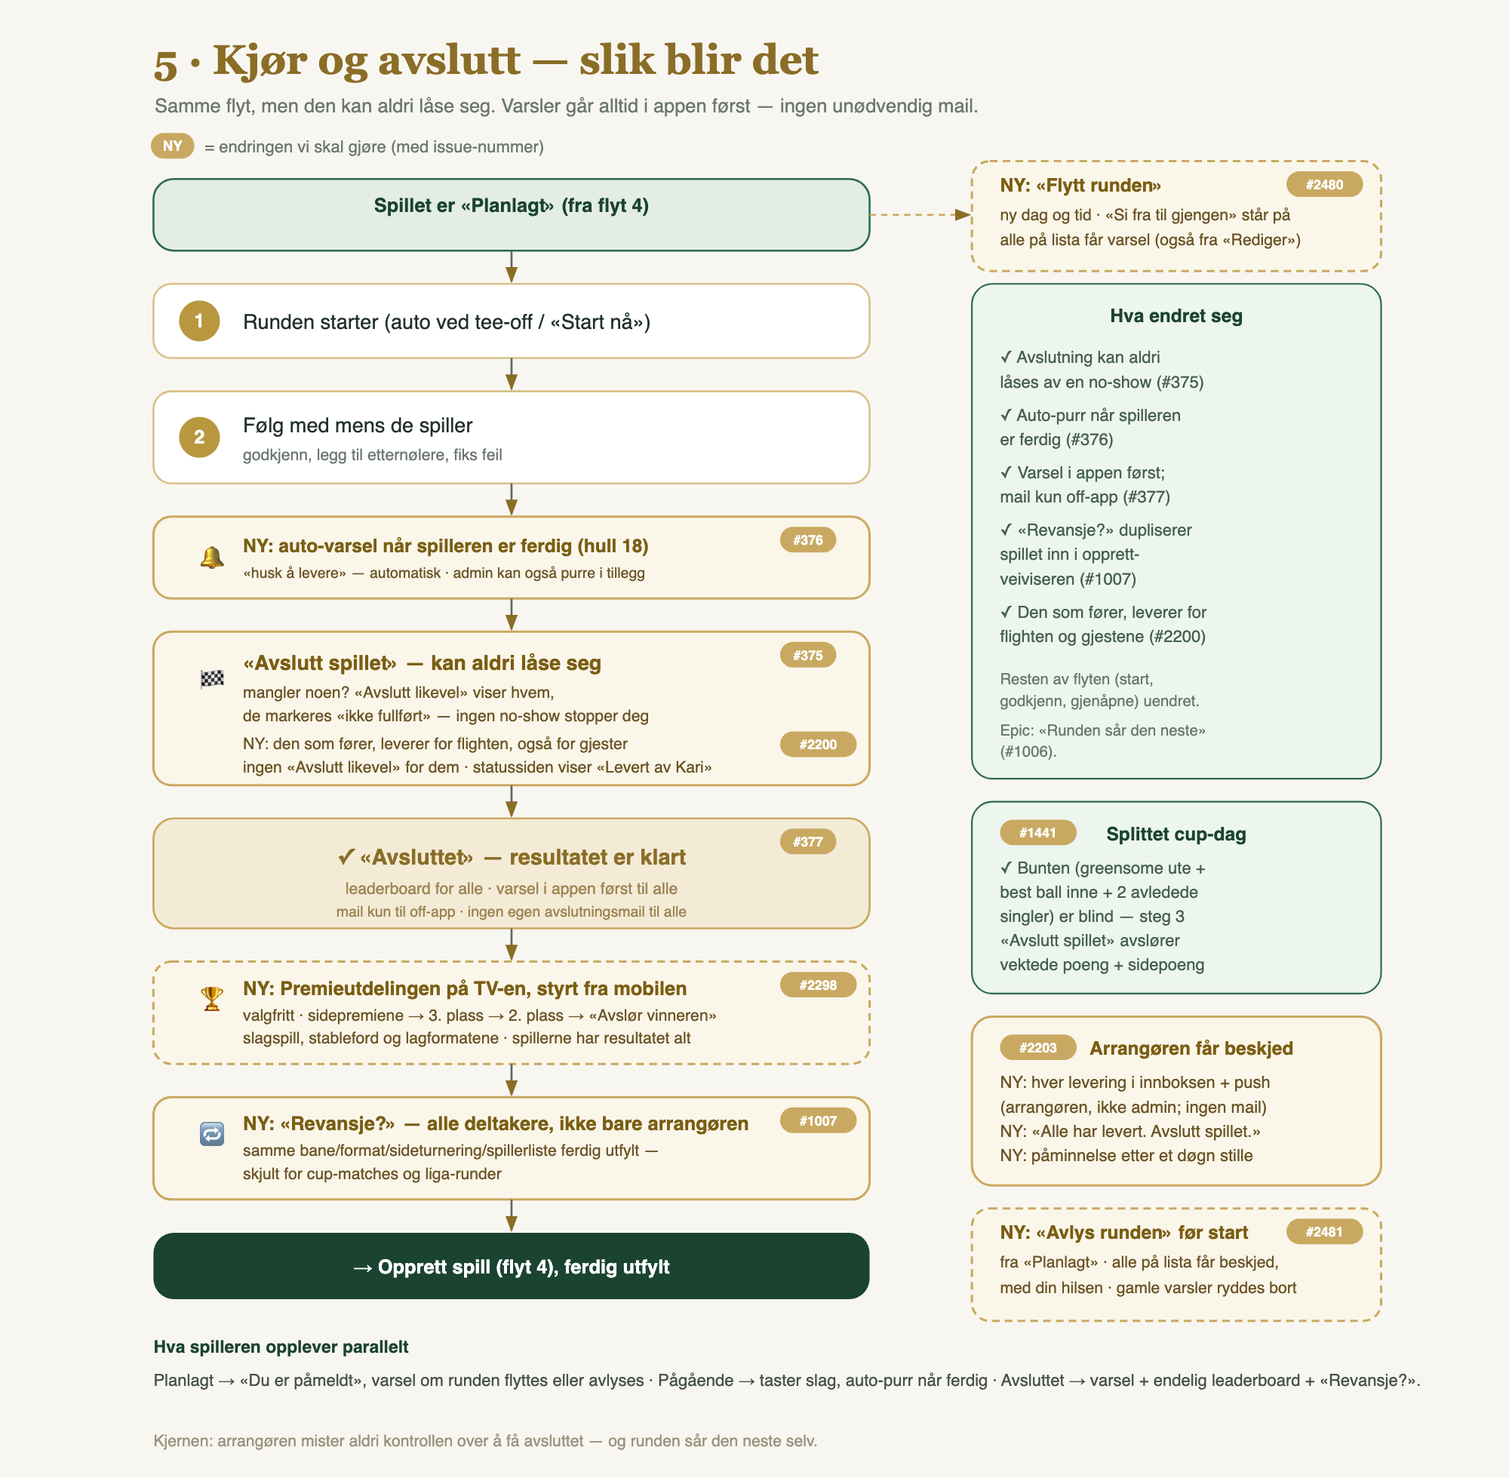
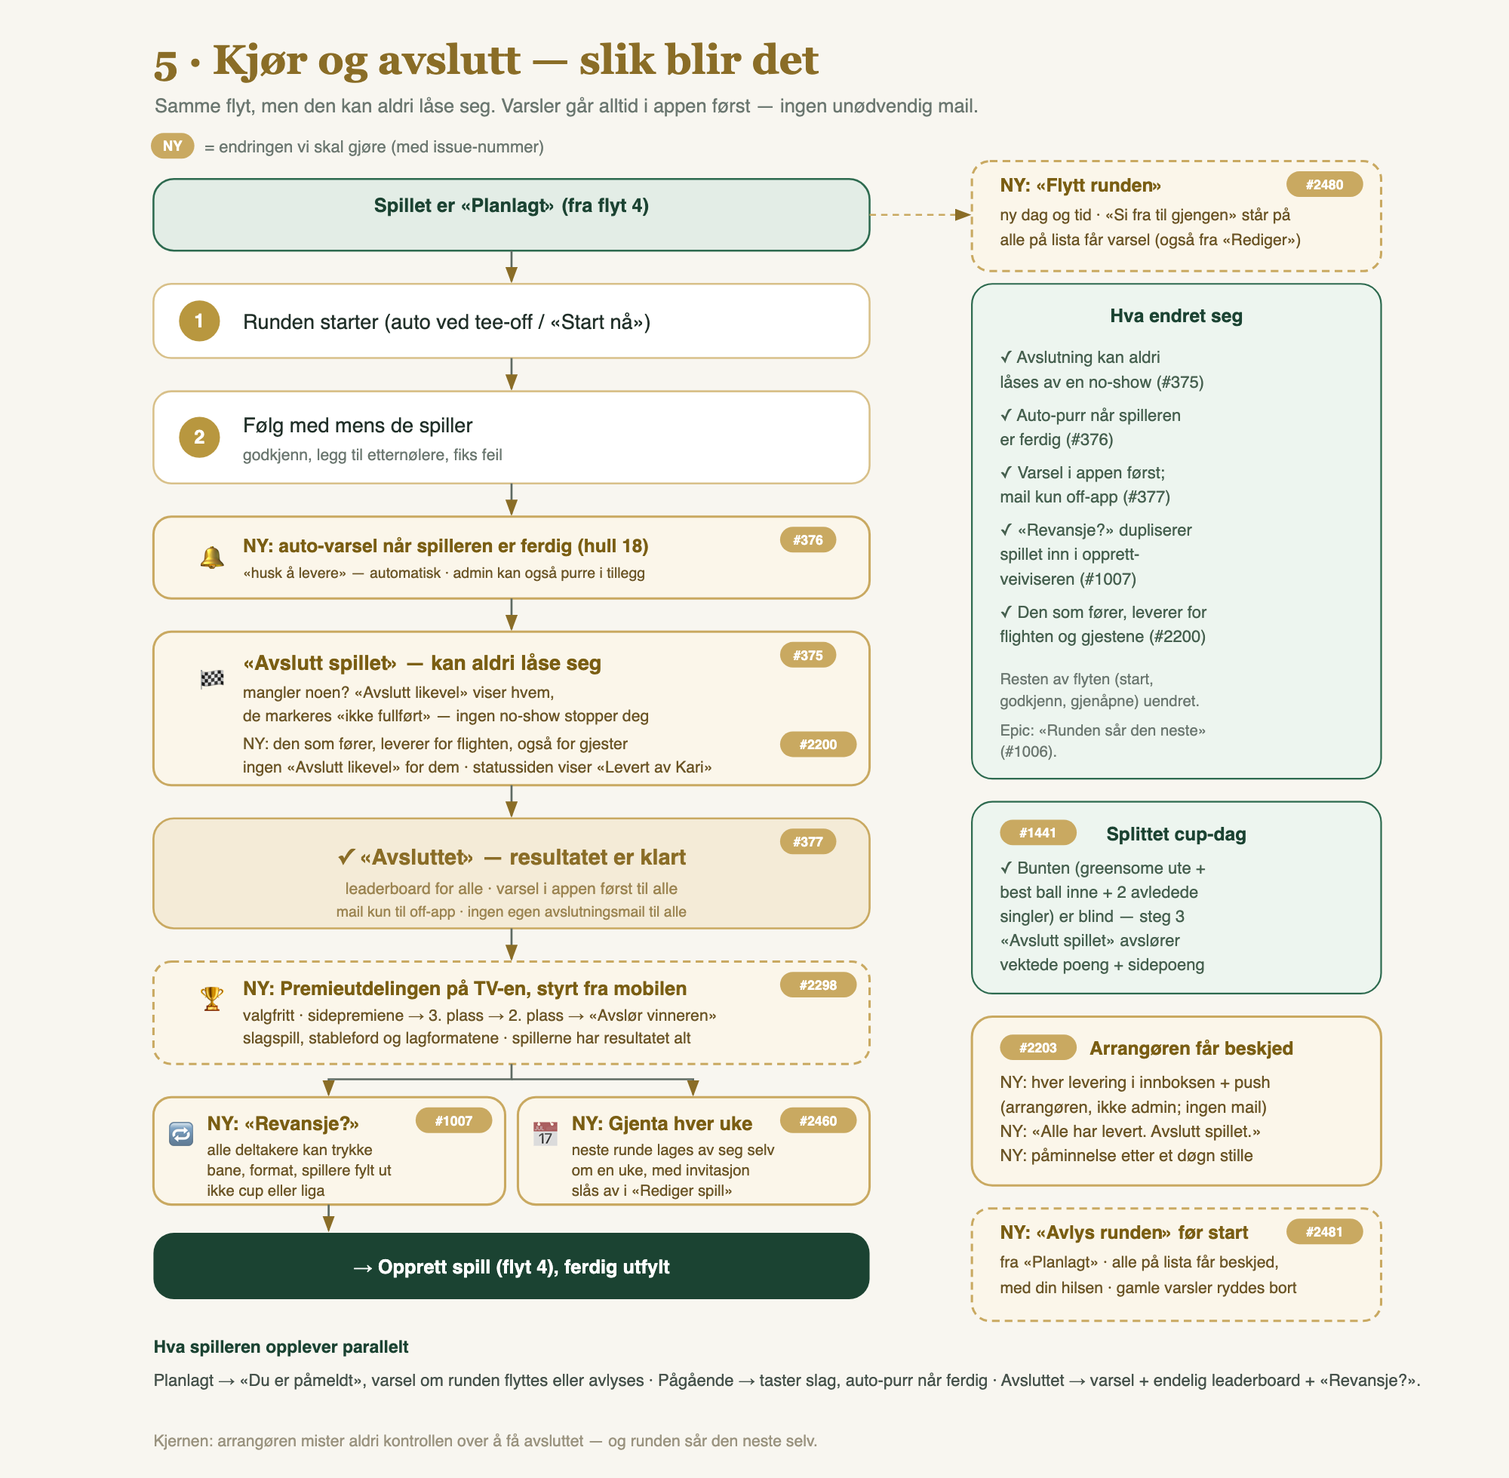
docs(flows): «Gjenta hver uke» in flows 4 and 5, user-flows and schema
Flow 4's «Klar?» gets a NY box for the switch (Kompis and Solo); flow 5
puts «Gjenta hver uke» beside «Revansje?» after the finish. PNGs
regenerated for the two diagrams only. user-flows.md says it at A1 step 5
and A2 «Avslutt»; schema-ground-truth.md has the two columns, the CHECK
and the guard.

Refs #2460

Changed region(s): [[0.093, 0.7162, 0.558, 0.8407]]

diff --git a/docs/user-flows.md b/docs/user-flows.md
@@ -348,7 +348,7 @@ flowchart LR
 | 2 Format | `FormatGrid` (eller `CupSetup`) | **DB-drevet** fra `formats` + `format_intent_mapping`, anbefalt format først: med antall (Kompis) er det første formatet som passer, et stort kort, og tre til står under (#2260). Under lista følger «Velg lagstørrelse» antallet: størrelser som ikke går opp, står grå og sier hvorfor, og et format med én lagstørrelse viser den som en linje (#2453). Når et format er valgt, krymper lista til én linje med «Bytt», og oppsettet står rett under (#2454). Cup → `createTournamentDraft` → `tournaments`-rad → `/admin/cup/[id]`. Ved «Klubb-turnering» velges klubben (`ClubPicker`) over formatlista, og «Neste» krever en gyldig klubb (#2439). Shamble og champagne scramble har handicap-andelen (%) rett under «Tellemåte», bare med Netto, og får ikke det generelle andelsfeltet på steg 5 (#2570). Dyplenka `?format=` fra formatvelgeren på `/spillformater` åpner Kompis på dette steget med formatet valgt og arrangøren som spiller (#2328). Dyplenka `?oppsett=<målgruppe>` fra guidene gjør det samme med guidens oppsett (format og lagstørrelse, uten antall) og vinner over `?format=`; `?fra=`, `?klubb=` og `?intent=` slår den av (`resolveWizardDeepLink`, #2331). `?bane=` gjør det ikke, for den kommer tilbake sammen med forslags-lenka fra «Opprett ny bane» (#2485). |
 | 3 Bane og tidspunkt | `BasicsSection` | «Hvor og når?» (#2448). **Sist brukt:** de to banene du brukte sist, som kort (per bruker, spill du har spilt eller arrangert; ikke utkast, trukne eller avledede spill, `getCourseAndTimeData`). Under navnet står «N runder i høst» (årstiden etter Oslo-kalenderen: vår mar–mai, sommer jun–aug, høst sep–nov, vinter des–feb), eller «Sist 12. aug» når banen ikke er spilt i årstiden. En bane valgt på annen måte står først som «Valgt». Uten historikk heter kickeren «Bane». **Søket** finner alle baner (fra `getNewGameFormData`). **Tee** er knapper med fargeprikk (`tee_boxes.color`, ellers navnet, ellers nøytral) og hvem teen er vurdert for; én tee er valgt fra start. **Tee-off** har hurtigvalg: «Nå» (bare Kompis og Solo, #2463), «I dag», «I morgen» og «Annen dag», så 08:00, 09:00, 10:00 og «Annen tid» (Oslo-tz, «nå» regnet på serveren). Standarden lørdag kl. 09:00 står under «Annen dag» med datoen, med mindre lørdag er i dag eller i morgen. Tider som har passert i dag kan ikke velges. «Nå» skjuler klokkeslettene: tiden settes når du publiserer (`resolveTeeOffForSave`), så femminuttersgrensen gjelder ikke, og runden starter med en gang. Et utkast med «Nå» lagres uten tidspunkt og åpnes med «Nå» valgt. Auto-navn. «Opprett ny bane» går til `/opprett-bane?next=…` med veien tilbake til steg 3. Der viser «Finnes banen alt?» opptil fem baner som ligner navnet du skriver (`similar_courses`, #2485). «Bruk denne», eller en bane du lagrer der, kommer tilbake valgt: når utkastet er hentet, velger veiviseren banen fra `?bane=` over utkastets og fjerner parameteren fra adressen (`useCourseFromUrl`). `banevalg=1` står igjen, så «Som sist» holder seg borte fra steg 1 også etter en reload (#2446). Format og spillere står. I appen heter døra «Finner du ikke banen? Legg den inn», og den åpner samme skjema med samme regler som nettet; en lagret bane, eller «Bruk denne», kommer tilbake valgt på steg 3 (#2757). |
 | 4 Spillere | `PlayerSourceChoice` + `PlayerPickerGrid` + `PlayerTray`, så `TeamsAssignmentSection` | Øverst, under tittelen «Hvordan får dere spillere?», står påmeldingsvalget (#2447, #367): «Jeg velger dem nå» (standard, privat), «De ber om plass, jeg godkjenner» (med «Slipp venner direkte inn», #369) og «Åpen påmelding». Velges påmelding, er lista valgfri og «Neste: Klar?» går rett til steg 5, også i best ball med deg alene. Klubb-turneringen har ikke valget (medlemskap er invitasjonen, #643) og beholder tittelen «Hvem skal spille?». Det samme gjelder en runde med «Nå» på steg 3: den starter med en gang, så du velger spillerne selv (#2463). Under valget: vennene (eller klubbmedlemmene) som kort, du selv først og så sist spilt først (`orderPickerPlayers`, #2321). Brettet nederst teller mot målet («3 av 4 · én til»). Lagformater og singles matchplay fordeler lag, sider og flights på en egen skjerm («Neste: lagene»); solo-formatene har tee per spiller på velgeren. Under påmeldingsvalget står «Hva melder man på?» (individuelt eller lag), bare for lagformater (#2457). Gjest legges til fra «+ Gjest»; «✉ E-post» samler adresser som inviteres når spillet publiseres (`sendPublishInvites`). Steget kan stå tomt hvis påmelding er valgt øverst på steget, og i en klubb-turnering med individuell påmelding (#2433). I appen (#2840 del 4) har spillersteget i en kompisrunde det samme valget øverst, med de samme ordene (`RegistrationChoice`): de tre kortene, «Slipp venner direkte inn» inne i kortet for godkjenning, og «Hva melder man på?» for lagformatene. Velges påmelding, heter lista «Vil du legge inn noen nå? Lista kan stå tom.», og runden kan publiseres uten spillere. Med Lag og påmelding er det ingen liste, og ingen står på den fra start (`organiserStartsOnRoster`). Lagene melder seg på selv, og merknaden sier at du melder på laget ditt fra runden. En som sto på lista uten lag, ville ikke kunnet melde på eget lag. Går valget tilbake, er lista og du med igjen. Et format uten lag setter typen tilbake til Individuelt. Klubbturneringen i appen har ikke valget. |
-| 5 Klar? | `ReadyStep` | Et lite invitasjonskort med spillnavnet som felt midt i kortet, og en sjekkliste (Bane, Format, Tee-off, Spillere) med status og «Endre» som hopper til steget valget bor på (#2282). Spillere-raden sier hvordan spillerne kommer («Privat», «Du godkjenner påmeldinger», «Åpen påmelding»; ikke i en klubb-turnering), og «Endre» går til steg 4 der valget bor (#2447). Under sjekklista står INNSTILLINGER (#2457): Handicap (bare for formater med handicapfelt), Startkontingent, Under runden (synlighet og godkjenning fra flighten) og Sideturnering og premier, hver som en kort rad med verdien som er satt og «Endre». «Endre» åpner et bunn-ark (`BottomSheet`) med bare radens felt; ✕, bakgrunnen, Esc og «Ferdig» lukker det. Verdiene bæres av `FormDataInputs`, ikke av arkene, så de er med når arket er lukket. Premiebordet er en rad som åpner bordet, lukket som standard og åpent når spillet alt har premier. Prosenten står bare i Handicap-raden; Format-raden blir fortsatt rød når den er ugyldig, og «Endre» der åpner Handicap-arket med fokus i feltet. Brettet nederst: «Publiser og del invitasjonen» (`createAndPublishGame`, status `scheduled` + invitasjoner) eller «Lagre som utkast» (`createGameDraft`, status `draft`). Publisering varsler alle på lista én gang (`notifyRosterInvites`); en tom klubb-turnering varsler ingen. «Lagre som utkast» varsler ingen (#2445). En venn uten fullført profil stopper ikke publiseringen. Runden starter når profilen er på plass, og spillerraden på steg 5 sier «N venter på profil» (#2441). Er alle valgte spillere gjester, blir spillerraden rød og publiseringen stoppes alltid, uansett påmeldingsmåte; serveren avviser også (`guestOnlyRoster`, #2570). Redigering av en planlagt runde stoppes ikke. I appen står «Påmelding» over spillerne i oppsummeringen for en kompisrunde, med de samme ordene og « · lag» for lagpåmelding («Åpen påmelding · lag»). Uten spillere og med lagpåmelding står «Spillere (0)» og «Lagene melder seg på selv». Etter publiseringen får arrangøren som ikke står på lista, kortet «Meld på laget ditt» på runden (`OwnTeamCard`, #2840 del 4). Knappen åpner lagskjemaet på «Påmelding» med deg som kaptein. Når laget er sendt, står «Laget ditt» i stedet. |
+| 5 Klar? | `ReadyStep` | Et lite invitasjonskort med spillnavnet som felt midt i kortet, og en sjekkliste (Bane, Format, Tee-off, Spillere) med status og «Endre» som hopper til steget valget bor på (#2282). Spillere-raden sier hvordan spillerne kommer («Privat», «Du godkjenner påmeldinger», «Åpen påmelding»; ikke i en klubb-turnering), og «Endre» går til steg 4 der valget bor (#2447). Under sjekklista står INNSTILLINGER (#2457): Handicap (bare for formater med handicapfelt), Startkontingent, Under runden (synlighet og godkjenning fra flighten) og Sideturnering og premier, hver som en kort rad med verdien som er satt og «Endre». «Endre» åpner et bunn-ark (`BottomSheet`) med bare radens felt; ✕, bakgrunnen, Esc og «Ferdig» lukker det. Verdiene bæres av `FormDataInputs`, ikke av arkene, så de er med når arket er lukket. Premiebordet er en rad som åpner bordet, lukket som standard og åpent når spillet alt har premier. Prosenten står bare i Handicap-raden; Format-raden blir fortsatt rød når den er ugyldig, og «Endre» der åpner Handicap-arket med fokus i feltet. Brettet nederst: «Publiser og del invitasjonen» (`createAndPublishGame`, status `scheduled` + invitasjoner) eller «Lagre som utkast» (`createGameDraft`, status `draft`). Publisering varsler alle på lista én gang (`notifyRosterInvites`); en tom klubb-turnering varsler ingen. «Lagre som utkast» varsler ingen (#2445). Under INNSTILLINGER står «Gjenta hver uke» for Kompis og Solo, ikke i en klubb-turnering, en cupkamp eller med «Nå» (`canRepeatWeekly`, #2460). Når bryteren er på, står neste dato under («Neste: lørdag 10. okt kl. 09:00 …», tee-off pluss sju dager), og appens «Klar?» har den samme bryteren for en kompisrunde. En venn uten fullført profil stopper ikke publiseringen. Runden starter når profilen er på plass, og spillerraden på steg 5 sier «N venter på profil» (#2441). Er alle valgte spillere gjester, blir spillerraden rød og publiseringen stoppes alltid, uansett påmeldingsmåte; serveren avviser også (`guestOnlyRoster`, #2570). Redigering av en planlagt runde stoppes ikke. I appen står «Påmelding» over spillerne i oppsummeringen for en kompisrunde, med de samme ordene og « · lag» for lagpåmelding («Åpen påmelding · lag»). Uten spillere og med lagpåmelding står «Spillere (0)» og «Lagene melder seg på selv». Etter publiseringen får arrangøren som ikke står på lista, kortet «Meld på laget ditt» på runden (`OwnTeamCard`, #2840 del 4). Knappen åpner lagskjemaet på «Påmelding» med deg som kaptein. Når laget er sendt, står «Laget ditt» i stedet. |
 | Kvittering | `app/[locale]/games/[id]/klar/page.tsx` (#2458) | «Publiser og del invitasjonen» lander her, fra ny runde og fra utkast, for admin og arrangør (`requireAdminOrCreator`). Redirecten erstatter veiviseren i historikken, så «Tilbake» fra spillet gir kvitteringen. Øverst står «✓ {navn} er klar» og hvem som har fått invitasjonen (`lib/games/publishReceipt.ts`: lista uten arrangøren, den som publiserte, gjester og trukne; opptil tre fornavn, så «og N til», e-postinvitasjoner sist). Under står det lille kortet fra «Klar?» uten felt, og så «Del i gruppechatten» (delingsarket, ellers kopiering), «Kopier lenke», «Legg i kalenderen» (`.ics`, også for arrangøren som ikke spiller) og «Gå til spillet» (admin `/admin/games/[id]`, andre `/games/[id]`). Delingsknappene står bare når `isPubliclyViewable` sier ja, så «Bare de jeg inviterer» viser ingen lenke. Siden skriver ingenting og kan lastes på nytt; et spill som ikke er planlagt, eller en cupkamp, sender videre til spillet. Cupkamper, utkast og en publisering der e-postinvitasjoner feilet, beholder sine redirecter. |
 
 **Autolagring (#2459).** Veiviseren lagrer oppsettet av seg selv etter hvert steg, i `localStorage` på denne enheten, per bruker og per flate (`/opprett-spill`, `/admin/games/new`), i 7 døgn (`wizardStatePersistence`). Det er ingen `games`-rad, ingen invitasjon og ingen synlighet for spillerne: «Lagre som utkast» på «Klar?» er fortsatt veien til et serverutkast. Merket «✓ Lagret som utkast» under stegtittelen står bare når siste skriving gikk. Fra steg 2 og utover står oppsettet øverst på Hjem under «Fortsett der du slapp» (`ResumeDraftCard`): format, bane, valgte spillere mot antallet fra steg 2 og «Steg X av 5». «Fortsett» åpner den lagrede lenka (steg, `skjerm=lag` og kontekst som `?klubb=`), «Slett utkastet» går til `/opprett-spill/slett-utkast`. Publisering, «Lagre som utkast», sletting, utlogging, eierbytte og kontosletting fjerner det.
@@ -364,7 +364,7 @@ Publiserer en arrangør som ikke er admin uten å stå på lista selv, lander he
 - **Startlista** (`/admin/games/[id]/startlista`, #2289): flightene som kort side om side, med antall spillere og snitt-HCP, og «Uten flight» nederst. Arrangøren trykker på en spiller og så på flighten hen skal til; «Foreslå inndeling» står øverst. Siden finnes for solo-formater med flere enn fire aktive, planlagt eller i gang, og erstatter nedtrekkslistene. Admin når den fra raden «Startlista» på spillsiden og i pultens «Oppsett», arrangøren fra «Styr spillere» og fra varselet på spillsiden når noen mangler flight.
 - **Påmeldinger** (`/admin/games/[id]/signups`): godkjenn/avvis manuelle forespørsler. Øverst står hvor mange som er med, hvor mange som venter og hvor mange plasser som er ledige («8 av 12», med teller spillerlista, #2291). Hver søknad er et kort med HCP og tidspunkt, et lag er ett kort, og et lag som trenger flere plasser enn det er ledig, er merket. «Steng påmeldingen» / «Gjenåpne påmeldingen» står bare her, ikke på spillsiden, og en grå lenkelinje nederst går til de godkjente, avviste og trukne (#2288). Arrangøren av spillet slipper også inn, fra varselet eller fra «Påmeldinger» på `/games/[id]/spillere` (#2440; også på runder med bare inviterte og der påmeldingen kan stenges), og fra e-posten «Ny påmelding» (#2202).
 - **Godkjenn/Åpne scorekort**: `adminApproveScorecard`, `reopenScorecard` (åpner hele laget i formatene med felles ball, #2213). Statussiden (`/admin/games/[id]/status`) og spillersiden (`/games/[id]/spillere`) viser «Levert av {navn}» på et kort en annen leverte (#2200); gjenåpning virker som før.
-- **Avslutt** (`endGame`): krever alle levert (+ godkjent hvis peer). Arrangøren får beskjed når det er klart: «Alle har levert» etter siste levering, godkjenning eller tilbaketrekking, én gang per spill, og ikke når hen gjorde det selv. Har et aktivt spill stått stille et døgn (ingen slag, leveringer, godkjenninger eller tilbaketrekkinger), får hen én påminnelse (`game_stale_reminder`, sveipen `POST /api/cron/stale-game-reminder`, pg_cron fra 0205). Cupkamper og avledede spill er utenfor begge. Spillet avslutter seg aldri selv (#2203). En gjest kan ikke levere selv, men den som fører kortet, leverer det (#2200), så gjester trenger ikke lenger «Avslutt likevel». Side-turnering → `/admin/games/[id]/avslutt` (velg LD/CTP-vinnere; en plass med hull viser hva flightene meldte inn på hullet, #2283). `→ finished` + `gameFinishedNotification` (Resend, off-app). `reopenGame` reverserer; kortene står fortsatt som levert, admin åpner dem som skal rettes (#2213).
+- **Avslutt** (`endGame`): krever alle levert (+ godkjent hvis peer). Arrangøren får beskjed når det er klart: «Alle har levert» etter siste levering, godkjenning eller tilbaketrekking, én gang per spill, og ikke når hen gjorde det selv. Har et aktivt spill stått stille et døgn (ingen slag, leveringer, godkjenninger eller tilbaketrekkinger), får hen én påminnelse (`game_stale_reminder`, sveipen `POST /api/cron/stale-game-reminder`, pg_cron fra 0205). Cupkamper og avledede spill er utenfor begge. Spillet avslutter seg aldri selv (#2203). En gjest kan ikke levere selv, men den som fører kortet, leverer det (#2200), så gjester trenger ikke lenger «Avslutt likevel». Side-turnering → `/admin/games/[id]/avslutt` (velg LD/CTP-vinnere; en plass med hull viser hva flightene meldte inn på hullet, #2283). `→ finished` + `gameFinishedNotification` (Resend, off-app). `reopenGame` reverserer; kortene står fortsatt som levert, admin åpner dem som skal rettes (#2213). Har runden «Gjenta hver uke» på, lager avslutningen neste runde én uke senere, samme ukedag og klokkeslett i Oslo-tid, med samme bane, tee, format og de aktive spillerne, og invitasjonen går ut som ved publisering (`spawnWeeklyRepeat` i `runFinishPipeline`, #2460). Det skjer også når appen avslutter, og bare én gang per runde (unik `repeated_from_game_id`), også om runden gjenåpnes. En runde uten et eneste ført slag lager ingen ny. Arrangøren slår gjentakelsen av under «Premier og innstillinger» i «Rediger spill».
 - **Premieutdelingen** (valgfri, etter «Avslutt», #2298): på et avsluttet spill i slagspill, stableford eller et lagformat med pall har arrangøren «Premieutdelingen →» på spillets side og under «Resultat» i Sekretariatet (`/games/[id]/premieutdeling`). Siden har lenken til storskjermen og én knapp som snur neste kort på TV-en: sidepremiene, 3. plass, 2. plass og «Avslør vinneren», med «Ett steg tilbake», «Start på nytt» og «Lukk». Steget står i `games.ceremony_step`, og TV-en spør etter det hvert 2. sekund. Spillerne har resultatet i appen fra «Avslutt» som før; et gjenåpnet spill starter uten seremoni.
 - **Påminn om hull uten slag** (pulten, #2268): «Påminn» på en hull-rad i «Trenger deg» sender spilleren varselet «Du mangler slag på hull H» (i innboksen, og som push og på e-post når spilleren ikke er i appen; lenke til hullet; varseltypen `missing_score_reminder`, 0203). Som leveringspåminnelsen kan arrangøren purre på nytt (#1891).
 - **Flytt runden** (planlagt spill, #2480): «Flytt runden →» på spillets side for arrangøren og fra «Rediger spill» i Sekretariatet (`/games/[id]/flytt`, `requireAdminOrCreator`). Ny dag og tid med hurtigvalg; «Si fra til gjengen» står på og gir hver aktive spiller på lista (ikke gjester, ikke den som flytter; arrangøren når en admin flytter) ett varsel i innboksen og som push, e-post når spilleren ikke er i appen (`game_moved`, 0226). Endres tee-off i «Rediger» › «Navn og tid», får arrangøren samme spørsmål. Autostart og kalenderfila følger den nye tiden.

diff --git a/docs/schema-ground-truth.md b/docs/schema-ground-truth.md
@@ -119,6 +119,14 @@ Do **not** assume one shape across the three. `games.status` is a typed enum; th
 - **Guard trigger `guard_games_league_round_id`** (0186, #2207): a non-null, new or changed
   `league_round_id` only from the service role or a global admin; the flight start inserts
   through the admin client. Clearing it is never checked.
+- **«Gjenta hver uke»** (0240, #2460): `repeat_weekly boolean NOT NULL DEFAULT false` (the
+  organiser's switch; the existing creator/admin UPDATE policies cover it) and
+  `repeated_from_game_id uuid UNIQUE REFERENCES games(id) ON DELETE SET NULL` (the weekly
+  successor's link; the unique constraint keeps it to one successor per round, also after a
+  reopen). CHECK `games_repeat_weekly_standalone`: `NOT repeat_weekly OR (tournament_id,
+  league_round_id, source_game_id all NULL)`; the club rule is TS (`canRepeatWeekly`). Guard
+  trigger `guard_games_repeated_from_game_id`: a non-null, new or changed link only from the
+  service role or a global admin. Clearing it is never checked.
 
 ## `format_intent_mapping` — operational data, drift from the snapshot is expected
 
